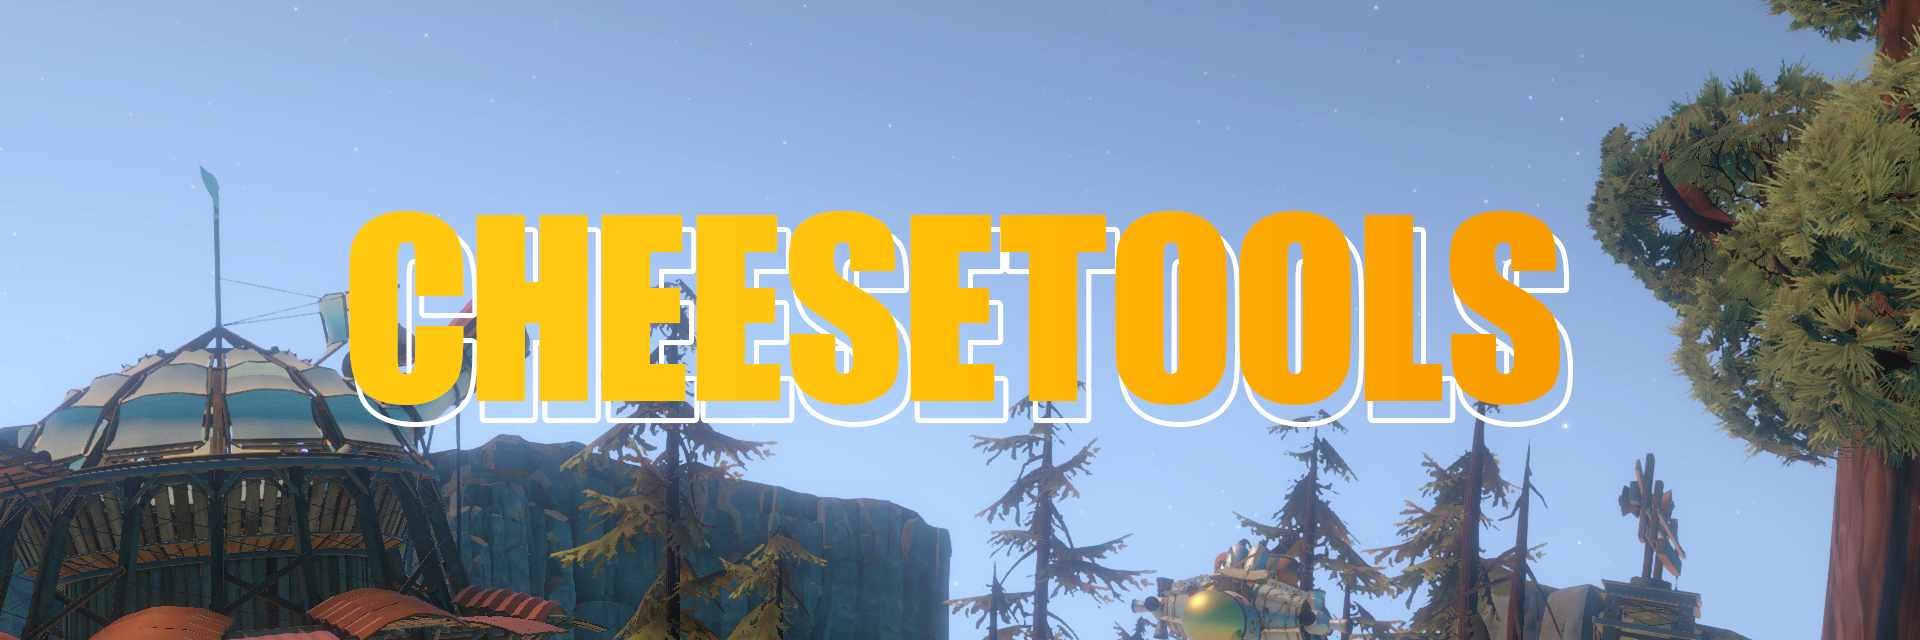
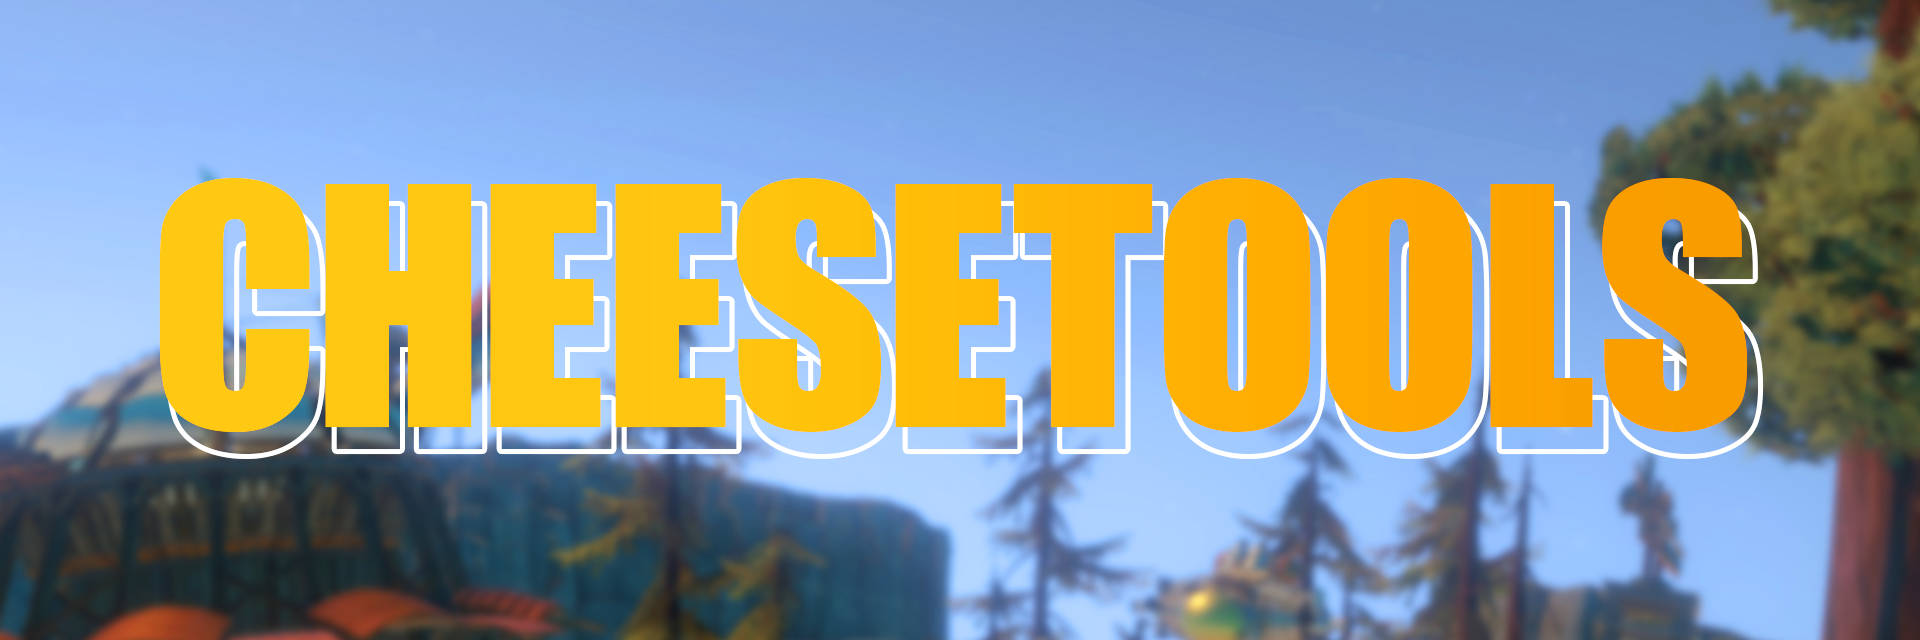
updated README.md and thumbnail.png

diff --git a/CheeseTools/CheeseTools.cs b/CheeseTools/CheeseTools.cs
@@ -227,10 +227,10 @@ namespace CheeseTools {
 					Locator.GetPlayerSuit().SuitUp(false, true);
 					RepairShip();
 					OWRigidbody ship = Locator.GetShipBody();
-					RelativeLocationData shipLocation = new RelativeLocationData(new Vector3(175.26f, -291.37f, -179.26f), Quaternion.Euler(27.46f, 111.93f, 285.54f), Vector3.zero);
+					RelativeLocationData shipLocation = new RelativeLocationData(new Vector3(-11.94f, -284.85f, -138.69f), Quaternion.Euler(9.78f, 104.03f, 296.32f), Vector3.zero);
 					Teleportation.TeleportPlayerToShip();
 					Teleportation.TeleportBodyTo(ship, Locator.GetMinorAstroObject("Angler Nest Dimension").GetAttachedOWRigidbody(), shipLocation);
-					ship.SetVelocity(Locator.GetMinorAstroObject("Angler Nest Dimension").GetAttachedOWRigidbody().GetVelocity() + ship.transform.forward * 50);
+					ship.SetVelocity(Locator.GetMinorAstroObject("Angler Nest Dimension").GetAttachedOWRigidbody().GetVelocity() + ship.transform.forward * 100);
 					Items.PickUpItem(Items.GetWarpCore());
 				});
 			}
@@ -332,8 +332,13 @@ namespace CheeseTools {
 			else if (keybinds.Get(SettingKeybind.CustomPracticeState3)?.WasPressedThisFrame() == true) {
 				CustomPracticeState(3);
 			}
-			// dev keybind for testing
+			// dev keybinds for testing
 			//else if (Keyboard.current[Key.Slash].IsPressed() && Keyboard.current[Key.F1].wasPressedThisFrame) {
+			//	OWRigidbody relativeBody = RelativeBody.GetCurrent();
+			//	RelativeBody.PrintRelativeLocation("Ship Location:\n", relativeBody, new RelativeLocationData(Locator.GetShipBody(), relativeBody));
+			//	Console.WriteLine("Ship Speed: " + Locator.GetShipBody().GetVelocity().magnitude);
+			//}
+			//else if (Keyboard.current[Key.Slash].IsPressed() && Keyboard.current[Key.F2].wasPressedThisFrame) {
 
 			//}
 

diff --git a/README.md b/README.md
@@ -25,13 +25,13 @@ Keybinds in this mod work as text with a `+` separating each key. To edit keybin
 | :-: | :-- |
 `/ + R` | Toggle Spacesuit
 `/ + T` | Fast Load New Expedition
-`/ + Y` | Teleport Player To Ship
+`/ + Y` | Teleport Ship To Player
 `/ + U` | Toggle Speedup
 `/ + I` | Enter/Exit Dreamworld
 `/ + O` | Log Player Location
 
 ### Practice States
-Practice states are the main feature of this mod and provide a way to practice specific parts of a speedrun. There are 8 pre-made ones specifically for practicing any%. While practicing I also find it important to be able to quickly try again which is why I made it so starting a practice state automatically loads the scene. No need to quit back to the titlescreen and start a new expedition yourself. You can start any practice state from anywhere at anytime.
+Practice states are the main feature of this mod and provide a way to practice specific parts of a speedrun. There are 8 pre-made ones specifically for practicing any%. While practicing I find it important to be able to quickly try again which is why I have made it so starting a practice state automatically loads the scene. No need to quit back to the titlescreen and start a new expedition yourself. You can start any practice state from anywhere at anytime.
 ### ATP
 **ATP Practice State:** `P + 1`  
 **ATP Loop Time:** The time the practice state starts.  
